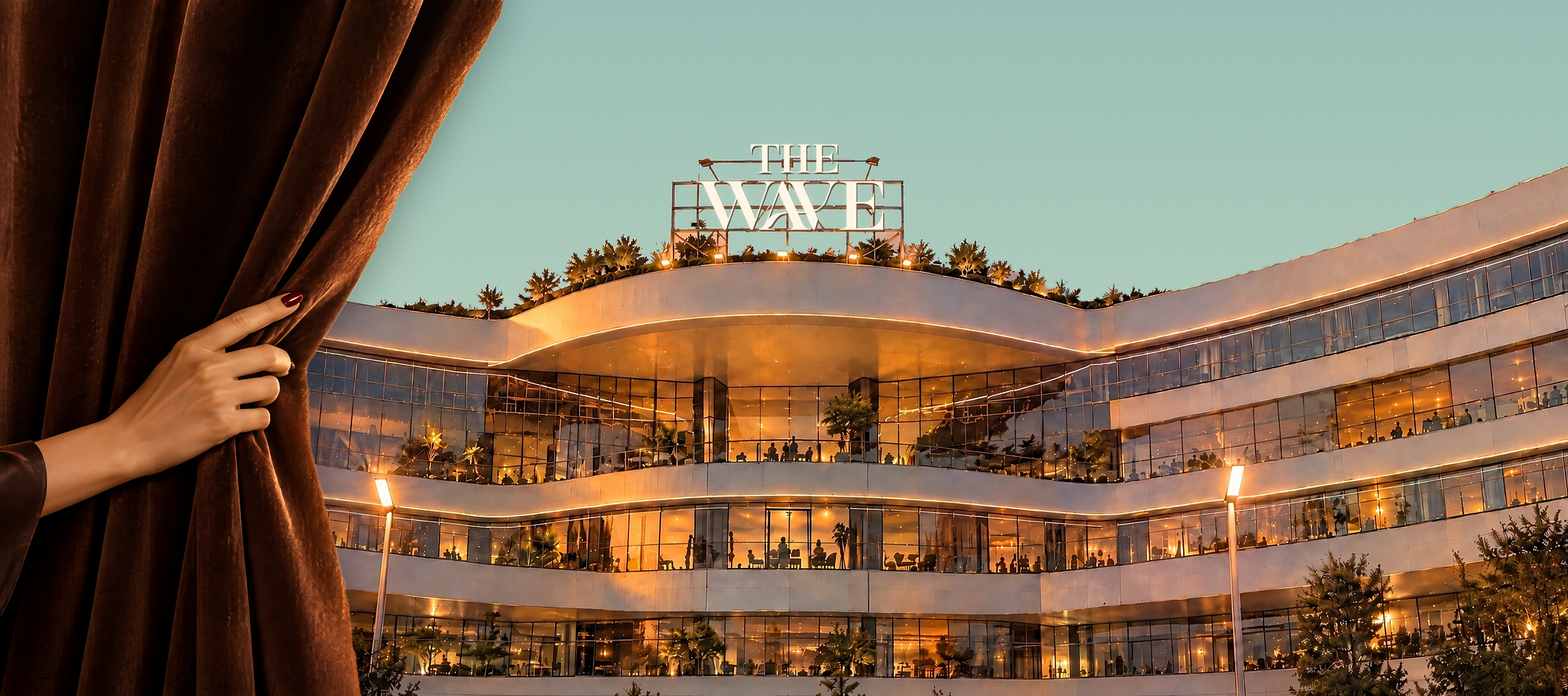
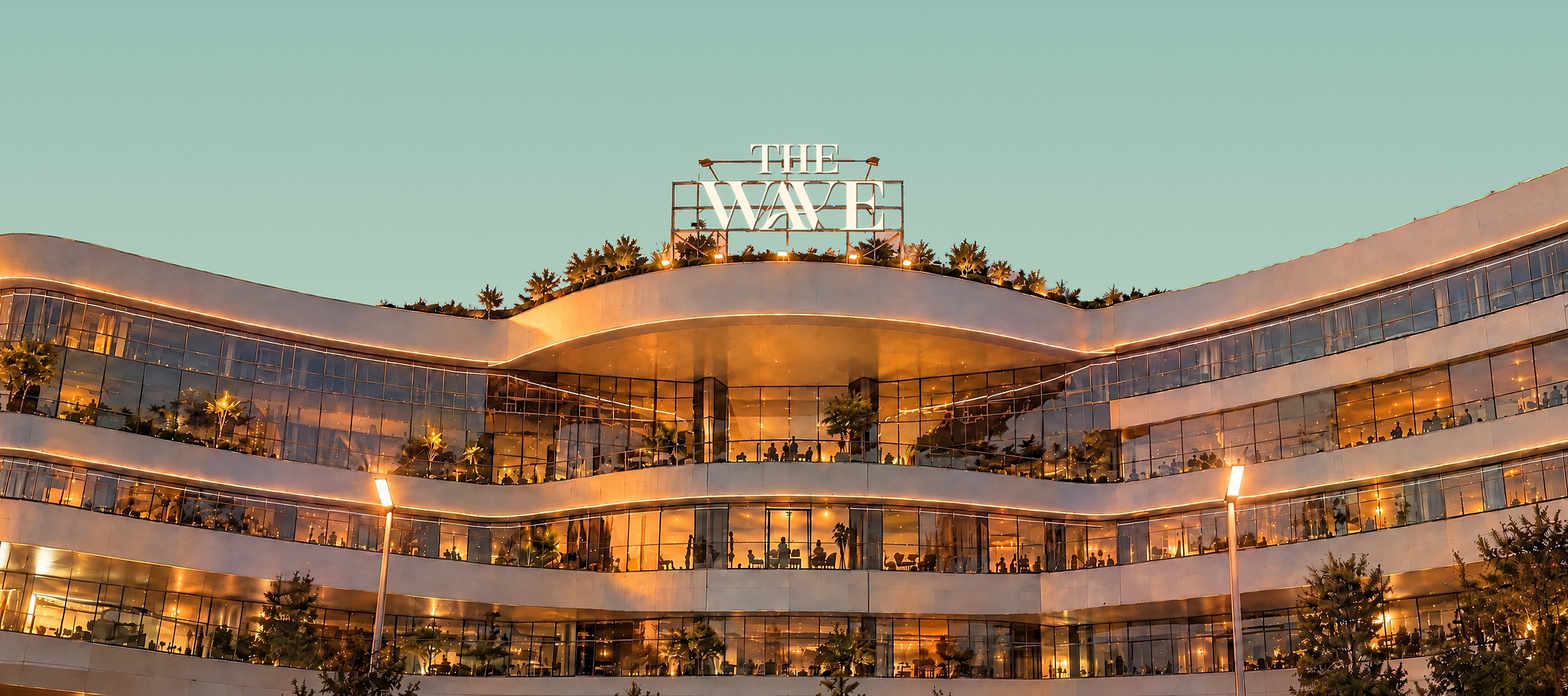
Instagram opening panorama: remove the curtain, the real Wave edge to edge
Claude-Session: https://claude.ai/code/session_0142AMHowNKcEFnnjpkxJwpv

Changed region(s): [[0.0, 0.0, 0.3429, 1.0]]

diff --git a/instagram/grid-v4/GRID-GUIDE.md b/instagram/grid-v4/GRID-GUIDE.md
@@ -1,9 +1,8 @@
 # The Wave · Instagram grid v4 (12 posts, with the opening panorama)
 
-The feed opens with one picture split across three posts, "Where every line leads somewhere."
+The feed opens with one picture split across three posts: the real Wave at golden hour, edge to edge. The building and the rooftop THE WAVE sign are from our photograph of the mall, with the sky set to the brand mint.
 
-- A hand draws back the velvet curtain and reveals the real Wave at golden hour: the building and the rooftop THE WAVE sign are from our photograph of the mall, with the sky set to the brand mint.
-- One fine line starts at her fingertip, passes behind the rooftop sign and ends at a small caption in the sky: EVERY LINE / LEADS SOMEWHERE.
+- One fine line enters from the left, passes behind the rooftop sign and ends at a small caption in the sky: EVERY LINE / LEADS SOMEWHERE.
 - A version with no text and no line is in the `silent` folder.
 
 Above the panorama sit the nine single posts, as a 3×3 grid.
@@ -27,7 +26,7 @@ Above the panorama sit the nine single posts, as a 3×3 grid.
 
 1. **post-01 · right:** EVERY LINE / LEADS SOMEWHERE (small, widely spaced capitals)
 2. **post-02 · middle:** no text (the real rooftop sign)
-3. **post-03 · left:** no text (the curtain and the hand)
+3. **post-03 · left:** no text (the left wing of the building)
 4. **post-04 · the light is on:** THE LIGHT / IS ON, / *every evening.* · NORTH 90 · NEW CAIRO
 5. **The woman:** no text
 6. **Bags:** EVERYTHING YOU NEED, / *and more.* · THE WAVE
@@ -69,4 +68,4 @@ Hashtags on every post: `#TheWave #TheWaveMall #NewCairo #North90`
 - `posting-order.png`: the profile numbered in posting order
 - `the-wave-grid-hero.jpg`: the campaign image
 
-The panorama is our real golden-hour photograph of The Wave (sky changed to mint, rooftop wordmark from the vector logo), with the velvet curtain and hand made with Higgsfield and laid over it. The caption and the line were set by hand, so the type is exact. The follower numbers on the profile are placeholders.
+The panorama is our real golden-hour photograph of The Wave (sky changed to mint, rooftop wordmark from the vector logo). The caption and the line were set by hand, so the type is exact. The follower numbers on the profile are placeholders.
